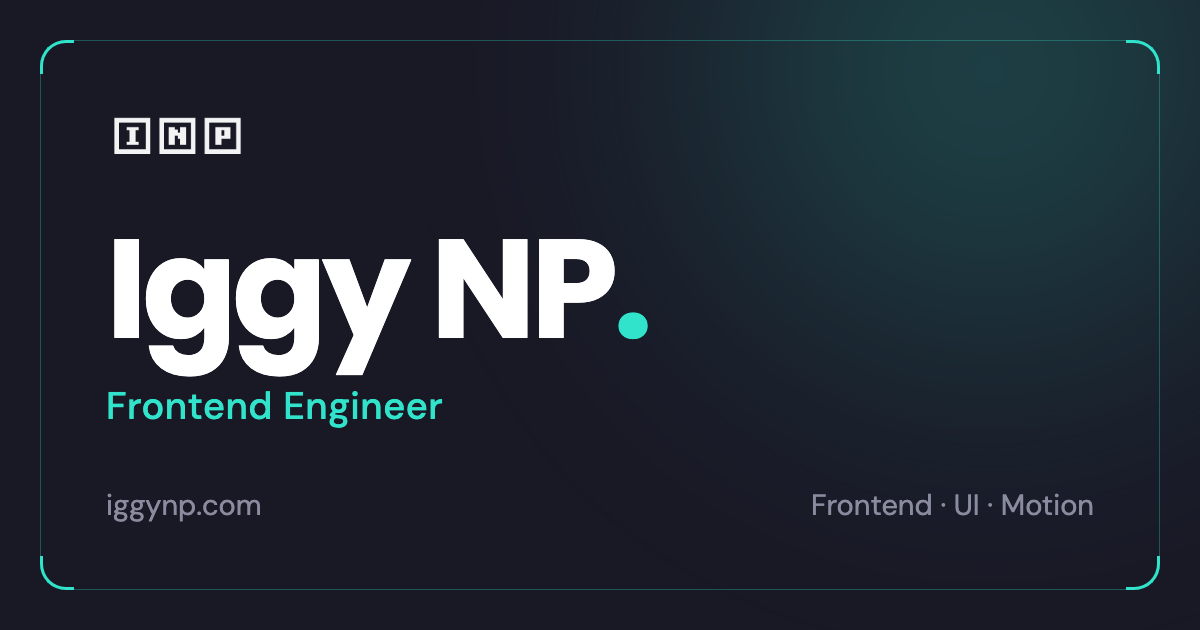
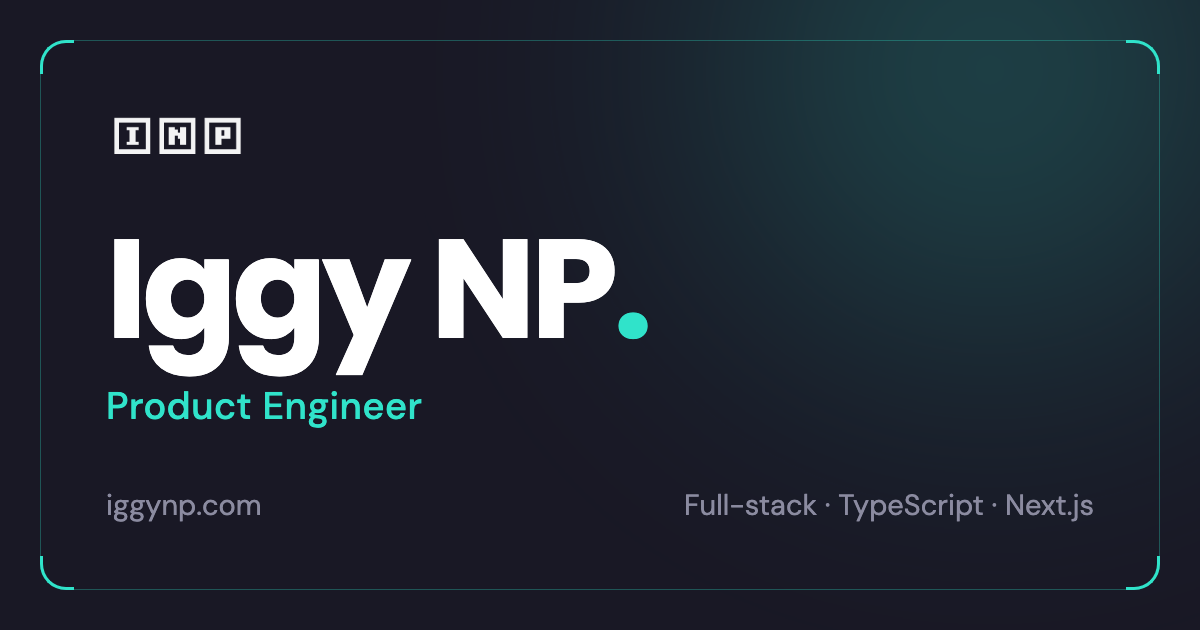
content(seo): posicionamiento Product Engineer (title, description, JSON-LD, og:image)

Changed region(s): [[0.555, 0.7841, 0.925, 0.8444], [0.0925, 0.6032, 0.37, 0.6937]]

diff --git a/scripts/og/og-home.html b/scripts/og/og-home.html
@@ -28,8 +28,8 @@ body{width:1200px;height:630px;overflow:hidden}
   <img class="logo" src="../../public/images/inp.png">
   <div>
    <div class="name">Iggy NP<span class="dot">.</span></div>
-   <div class="role">Frontend Engineer</div>
+   <div class="role">Product Engineer</div>
   </div>
-  <div class="foot"><span>iggynp.com</span><span>Frontend · UI · Motion</span></div>
+  <div class="foot"><span>iggynp.com</span><span>Full-stack · TypeScript · Next.js</span></div>
  </div>
 </div></body></html>

diff --git a/src/pages/index.js b/src/pages/index.js
@@ -14,7 +14,7 @@ const PERSON_LD = {
   "@type": "Person",
   name: "Ignacio Navarro",
   alternateName: "IggyNP",
-  jobTitle: "Frontend Engineer",
+  jobTitle: "Product Engineer",
   url: "https://iggynp.com",
   sameAs: [
     "https://github.com/IggyNP",
